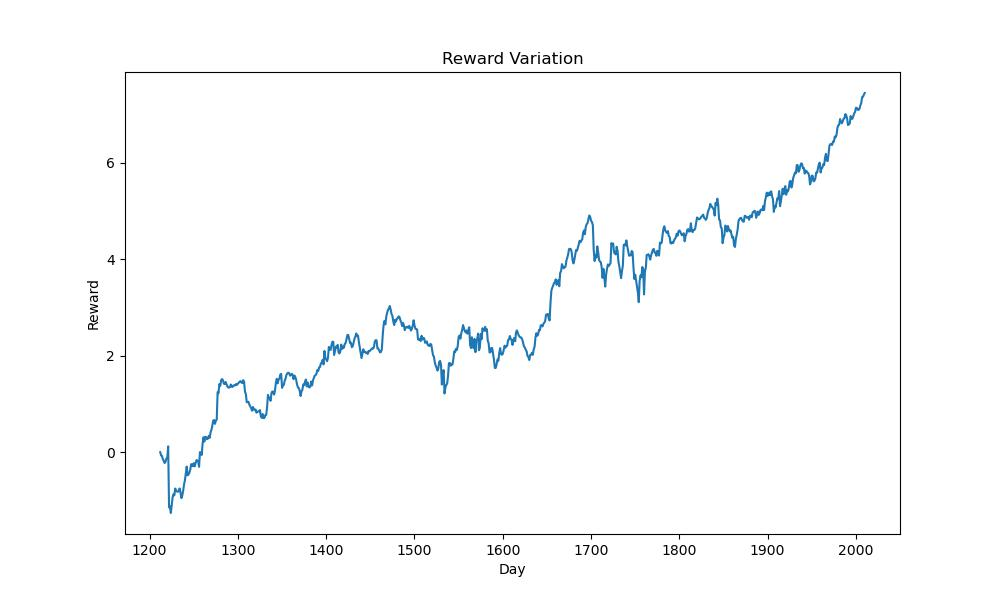
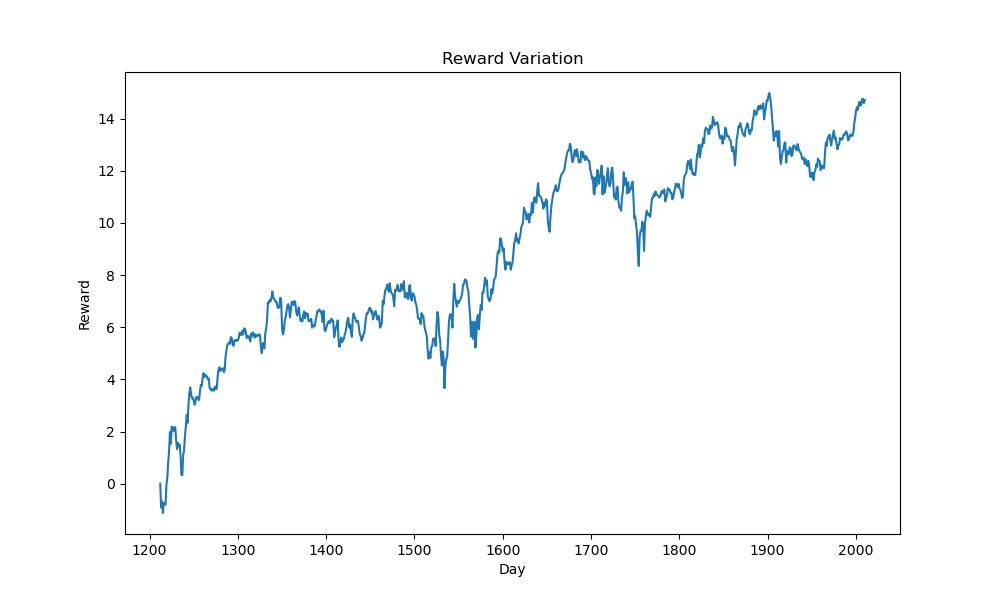
Final Version

diff --git a/train.py b/train.py
@@ -12,7 +12,7 @@ from stable_baselines3 import PPO, A2C, SAC, DDPG
 from custom_rl_policy import CustomActorCriticPolicy, CustomNetwork
 CUDA_LAUNCH_BLOCKING=1 
 
-name = "MultiStockTrader_stable"
+name = "MultiStockTrader_brave_new3"
 indicators = ['feature_%d' %i for i in range(11)]
 cols_per_asset = 11
 num_assets = 15
@@ -68,7 +68,7 @@ def trainRL():
     # model = PPO('MlpPolicy', env, verbose=2,tensorboard_log='tb_logs', batch_size=256)
     # model = PPO(GATActorCriticPolicy, env, verbose=2,tensorboard_log='tb_logs', batch_size=16)
 
-    model.learn(total_timesteps=8000)
+    model.learn(total_timesteps=9000)
     plt.figure(figsize=(16, 6))
     model.save("saved_models/" + name)
     scalers = env.scalers
@@ -109,6 +109,7 @@ if __name__ == "__main__":
     np.save('res/action2', port_ratios)
 
 
+
 """
     obs = env.reset()
     port_ratios = []
@@ -137,9 +138,10 @@ if __name__ == "__main__":
             break
 
     print("Total profit: %.3f" % sum(infer_rewards))
-    flucation = (max(margins) - min(margins)) / env.initial_amount
-    print('Fluctuation : %.3f' % flucation)
-    print('ER - Fluc = %.3f' % (2 * (last_er - 1) - flucation))
+    fluctuation = (max(margins) - min(margins)) / env.initial_amount
+    print('Fluctuation : %.3f' % fluctuation)
+    mySharpe = (last_er - 1) / np.std(env.rewards)
+    print('Sharpe = %.3f' % mySharpe)
     port_ratios = np.array(port_ratios)
     np.save("res/train_res", port_ratios)
 
@@ -151,7 +153,7 @@ if __name__ == "__main__":
     svps = np.array(svps)
     ax1.set_title('Average Index')
     ax1.plot(infer_steps, sensex_values, label='Index')
-    ax2.set_title('Infer Rewards')
+    ax2.set_title('Infer Rewards (Sharpe = %.3f)' % mySharpe)
     ax2.plot(infer_steps, infer_rewards, color="red", label='Profit')
     ax3.set_title('Overall Position')
     ax3.plot(infer_steps, np.sum(port_ratios, axis=1))

diff --git a/multi_stock_trading_env.py b/multi_stock_trading_env.py
@@ -192,7 +192,8 @@ class MultiStockTradingEnv(gym.Env):
         # Normalize the portfolio positions for next step
         norm_margin_pos = (abs_portfolio_dist/sum(abs_portfolio_dist))*self.margin
         # Calulate the money in the next positions
-        next_positions = np.sign(actions) * norm_margin_pos
+        # next_positions = np.sign(actions) * norm_margin_pos
+        next_positions = np.sign(actions) * self.initial_amount * self.SCALE_CONST # Match testStep
         # Change in money value of the positions
         change_in_positions = next_positions - self._position
         # Actions to take in the market
